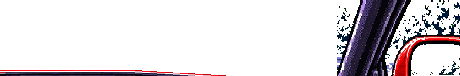
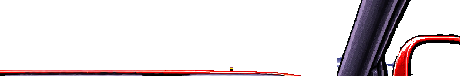
NX: painel da arte sem volante do Victor e mostradores nas posições dela (v0.16.5)
Claude-Session: https://claude.ai/code/session_01MLD9VR7gkmY4w6a9beZcp6

Changed region(s): [[0.7304, 0.0, 1.0, 1.0], [0.0, 0.8684, 0.6696, 1.0], [0.9435, 0.8158, 1.0, 1.0]]

diff --git a/src/cockpit.ts b/src/cockpit.ts
@@ -785,17 +785,17 @@ COCKPIT_ART.nsx = {
   pivot: [128, 104], wheelTop: 14, speedMax: 280, needle: '#ff3a1a', needleW: 1.5, needleTail: 3, hub: '#1a1a1c', radar: [30, 4],
   // retrovisor externo à direita (mão inglesa): o espelho da arte é transparente e mostra a vista de trás
   glass: { at: [436, 71], thr: 256 },
-  tach: { x: 103, y: 44, r: 22, max: 9, labels: [0, 1, 2, 3, 4, 5, 6, 7, 8, 9], tick: 0.5, red: 8, labelScale: 0.7, redLabels: false, ink: NX_INK, bg: '#0b0b0d' },
-  speed: { x: 155, y: 44, r: 22, max: 280, labels: [0, 40, 80, 120, 160, 200, 240, 280], tick: 10, red: 999, labelScale: 0.7, ink: NX_INK, bg: '#0b0b0d' },
+  // como na arte do Victor: conta-giros e velocímetro grandes, temperatura à esquerda e
+  // combustível à direita, hodômetro e parcial embaixo
+  tach: { x: 98, y: 50, r: 22, max: 9, labels: [0, 1, 2, 3, 4, 5, 6, 7, 8, 9], tick: 0.5, red: 8, labelScale: 0.7, redLabels: false, ink: NX_INK, bg: '#0b0b0d' },
+  speed: { x: 159, y: 50, r: 22, max: 280, labels: [0, 40, 80, 120, 160, 200, 240, 280], tick: 10, red: 999, labelScale: 0.7, ink: NX_INK, bg: '#0b0b0d' },
   aux: [
-    { x: 70, y: 40, r: 7, kind: 'single', show: ['water'], icon: 'temp', labels: ['C', 'H'] },
-    { x: 64, y: 60, r: 7, kind: 'single', show: ['oil'], icon: 'oil', labels: ['0', '8'] },
-    { x: 186, y: 40, r: 7, kind: 'single', show: ['fuel'], icon: 'fuel', labels: ['0', '1'] },
-    { x: 192, y: 60, r: 7, kind: 'single', show: ['volt'], icon: 'volt', labels: ['8', '16'] },
+    { x: 63, y: 54, r: 8, kind: 'single', show: ['water'], icon: 'temp', labels: ['C', 'H'] },
+    { x: 193, y: 54, r: 8, kind: 'single', show: ['fuel'], icon: 'fuel', labels: ['E', 'F'] },
   ],
   extra: (c, ox, r) => {
-    odometer(c, ox, r, { x: 97, y: 55, w: 12, h: 3.5 }, 27, 6, 0.5);
-    odometer(c, ox, r, { x: 151, y: 55, w: 8, h: 3.5 }, 0, 4, 0.5, true);
+    odometer(c, ox, r, { x: 64, y: 76, w: 12, h: 3.5 }, 27, 6, 0.5);
+    odometer(c, ox, r, { x: 186, y: 76, w: 8, h: 3.5 }, 0, 4, 0.5, true);
   },
 };
 

diff --git a/tools/ref/nx_cockpit2.py b/tools/ref/nx_cockpit2.py
@@ -8,7 +8,8 @@
 - o nome da marca no rádio sai
 Escala 0,37 (pixel 8:7), pivô do volante no centro da tela.
 
-Uso: python3 tools/ref/nx_cockpit2.py <cab2.png> <src/assets/cockpit>
+Uso: python3 tools/ref/nx_cockpit2.py <cab2.png> <src/assets/cockpit> [cab2-nowheel.png]
+(com a arte sem volante, o painel e o teto saem dela; sem ela, o painel é reconstruído)
 """
 import os
 import sys
@@ -44,7 +45,9 @@ def sample(img, xs, ys):
 
 def main():
     src, out = sys.argv[1], sys.argv[2]
-    art = np.array(Image.open(src).convert('RGB'))
+    nowheel = sys.argv[3] if len(sys.argv) > 3 else None
+    wart0 = np.array(Image.open(src).convert('RGB'))
+    art = np.array(Image.open(nowheel).convert('RGB')) if nowheel else wart0
     H, W = art.shape[:2]
     rgb = art.astype(int)
     r_, g_, b_ = rgb[..., 0], rgb[..., 1], rgb[..., 2]
@@ -57,7 +60,7 @@ def main():
     # para-brisa: acima da faixa vermelha do capô (procurada coluna a coluna; atrás do aro do
     # volante, onde ela some, a linha é interpolada)
     top = np.full(W, -1)
-    for x in list(range(0, 762)) + list(range(1316, 1330)):  # fora do aro (dentro dele há ponteiros vermelhos)
+    for x in (range(0, 1330) if nowheel else list(range(0, 762)) + list(range(1316, 1330))):  # fora do aro (dentro dele há ponteiros vermelhos)
         k = np.nonzero(red[180:300, x])[0]
         if len(k):
             top[x] = 180 + k[0]
@@ -70,8 +73,18 @@ def main():
     # coluna, painel e porta são cinza-arroxeados (vermelho ~ verde, azul por cima, até o brilho
     # lilás); paisagem é verde, azul-céu (verde > vermelho) ou branca. À direita do para-brisa,
     # acima da linha da porta, o que não é peça vira vidro (sem pontinhos soltos)
-    solid = ((lum < 200) & (sat < 95) & (b_ >= g_ - 4) & (r_ >= g_ - 10)) | red | (lum < 30)
-    win = (~solid & (xx >= 1280) & (yy < 330)).astype(np.uint8)
+    solid = ((lum < 200) & (sat < 95) & (b_ >= g_ - 4) & (r_ >= g_ - 10)) | red | ((lum < 30) & (b_ >= g_))
+    # folhagem (verde) e mureta (branco-azulado) nunca são peça do carro
+    # (a coluna lilás tem verde abaixo do vermelho; folhas e céu/mureta têm verde acima)
+    scen = (g_ > r_ + 10) | ((b_ > r_ + 12) & (g_ >= r_) & (lum > 120))
+    solid &= ~scen
+    win = (~solid & (xx >= 1180) & (yy < 330) & (yy < top[None, :] + 40 + (xx - 1180) * 0)).astype(np.uint8)
+    # folhas escuras soltas no meio da paisagem: ilhas pequenas de "peça" viram paisagem
+    isl = ((1 - win) * ((xx >= 1180) & (yy < 330))).astype(np.uint8)
+    n, lab, st, _ = cv2.connectedComponentsWithStats(isl, connectivity=8)
+    for i in range(1, n):
+        if st[i, cv2.CC_STAT_AREA] < 400:
+            win[lab == i] = 1
     win = cv2.morphologyEx(win, cv2.MORPH_OPEN, np.ones((3, 3), np.uint8))
     n, lab, st, _ = cv2.connectedComponentsWithStats(win, connectivity=4)
     for i in range(1, n):
@@ -97,16 +110,16 @@ def main():
     hub = np.zeros((H, W), np.uint8)
     cv2.fillPoly(hub, [np.array(HUB, np.int32)], 1)
     wheel = (e_out & ~e_in) | (hub.astype(bool) & e_out)
-    wart = art.copy()
+    wart = wart0.copy()
     # o H do miolo: placa lisa da cor do miolo em volta
     hx, hy = 1043, 490
     hmask = ((xx - hx) / 44) ** 2 + ((yy - hy) / 40) ** 2 <= 1
     ring = (((xx - hx) / 60) ** 2 + ((yy - hy) / 54) ** 2 <= 1) & ~hmask
-    wart[hmask] = np.percentile(art[ring], 40, axis=0).astype(np.uint8)
+    wart[hmask] = np.percentile(wart0[ring], 40, axis=0).astype(np.uint8)
 
     # --- painel sem o volante: preenchido a partir das bordas ---
     dash = art.copy()
-    m = cv2.dilate(wheel.astype(np.uint8), np.ones((5, 5), np.uint8))
+    m = cv2.dilate(wheel.astype(np.uint8), np.ones((5, 5), np.uint8)) * (0 if nowheel else 1)
     small = cv2.resize(dash, (W // 2, H // 2), interpolation=cv2.INTER_AREA)
     ms = cv2.resize(m, (W // 2, H // 2), interpolation=cv2.INTER_NEAREST)
     fill = cv2.inpaint(small, ms, 6, cv2.INPAINT_TELEA)
@@ -115,7 +128,7 @@ def main():
     # atrás do aro: a faixa vermelha do capô e a borda do painel continuam (copiadas de uma
     # coluna ao lado do aro, na mesma altura relativa à linha do capô)
     ref = 752
-    for x in range(762, 1316):
+    for x in (range(762, 1316) if not nowheel else []):
         for k in range(0, 14):
             dash[top[x] + k, x] = dash[top[ref] + k, ref]
     # nome da marca no rádio
@@ -134,7 +147,7 @@ def main():
         qx = np.clip(nx, a + rr, b - rr)
         qy = np.clip(ny, c + rr, d - rr)
         return np.hypot(nx - qx, (ny - qy) * 0.875) <= rr
-    cx0, cx1, cy0, cy1 = 52, 204, 14, 78
+    cx0, cx1, cy0, cy1 = (46, 210, 18, 84) if nowheel else (52, 204, 14, 78)
     face = inside(cx0, cx1, cy0, cy1, 9)
     rim = inside(cx0 - 2, cx1 + 2, cy0 - 2, cy1 + 2, 11) & ~face
     streak = (np.sin(ny * 2.1) * 3 + ((gx * 7 + gy * 13) % 5) - 2).astype(int)
